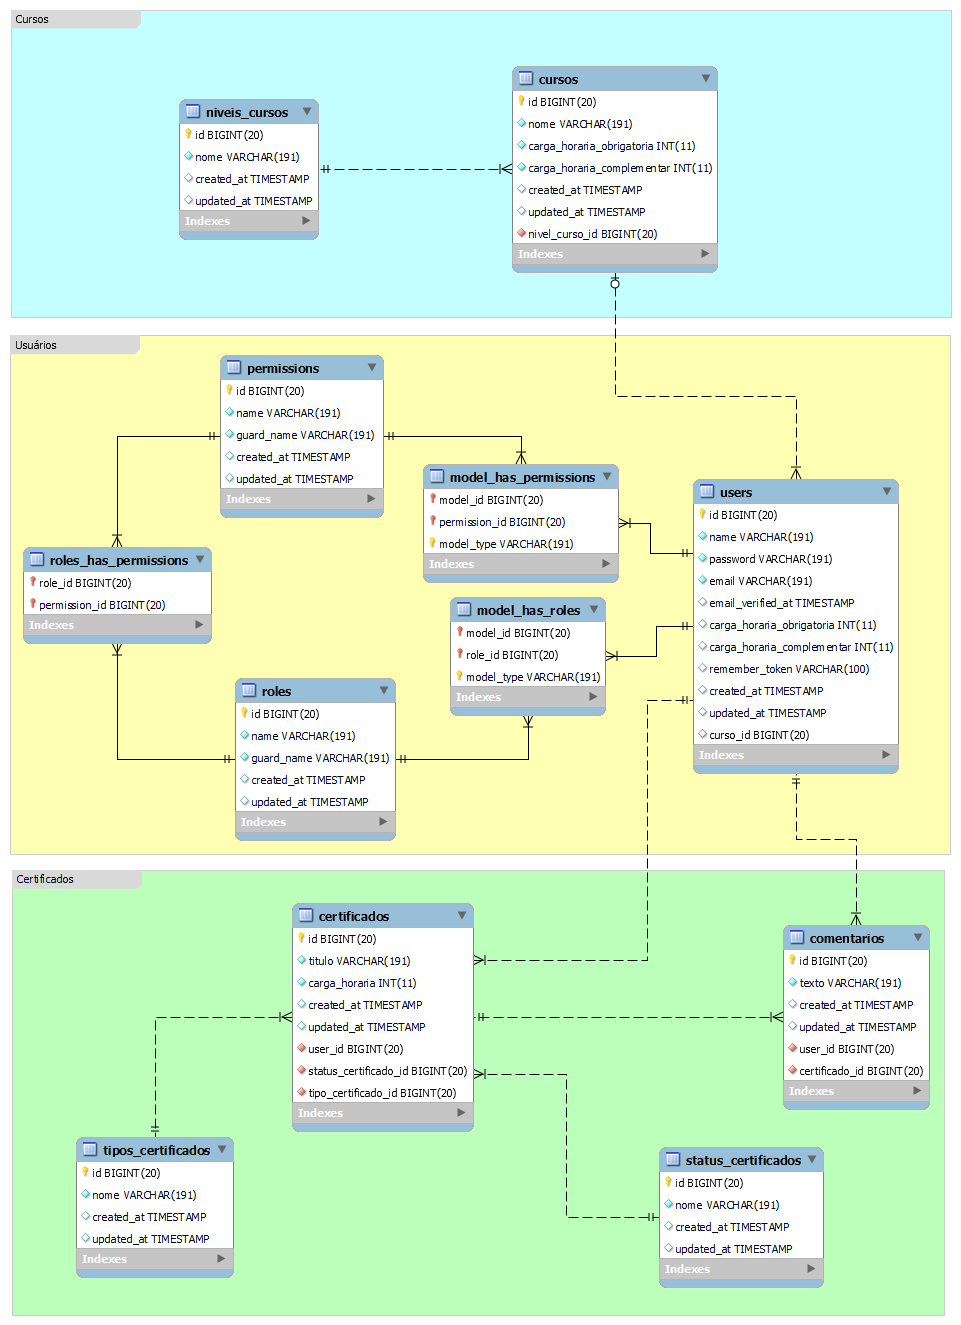
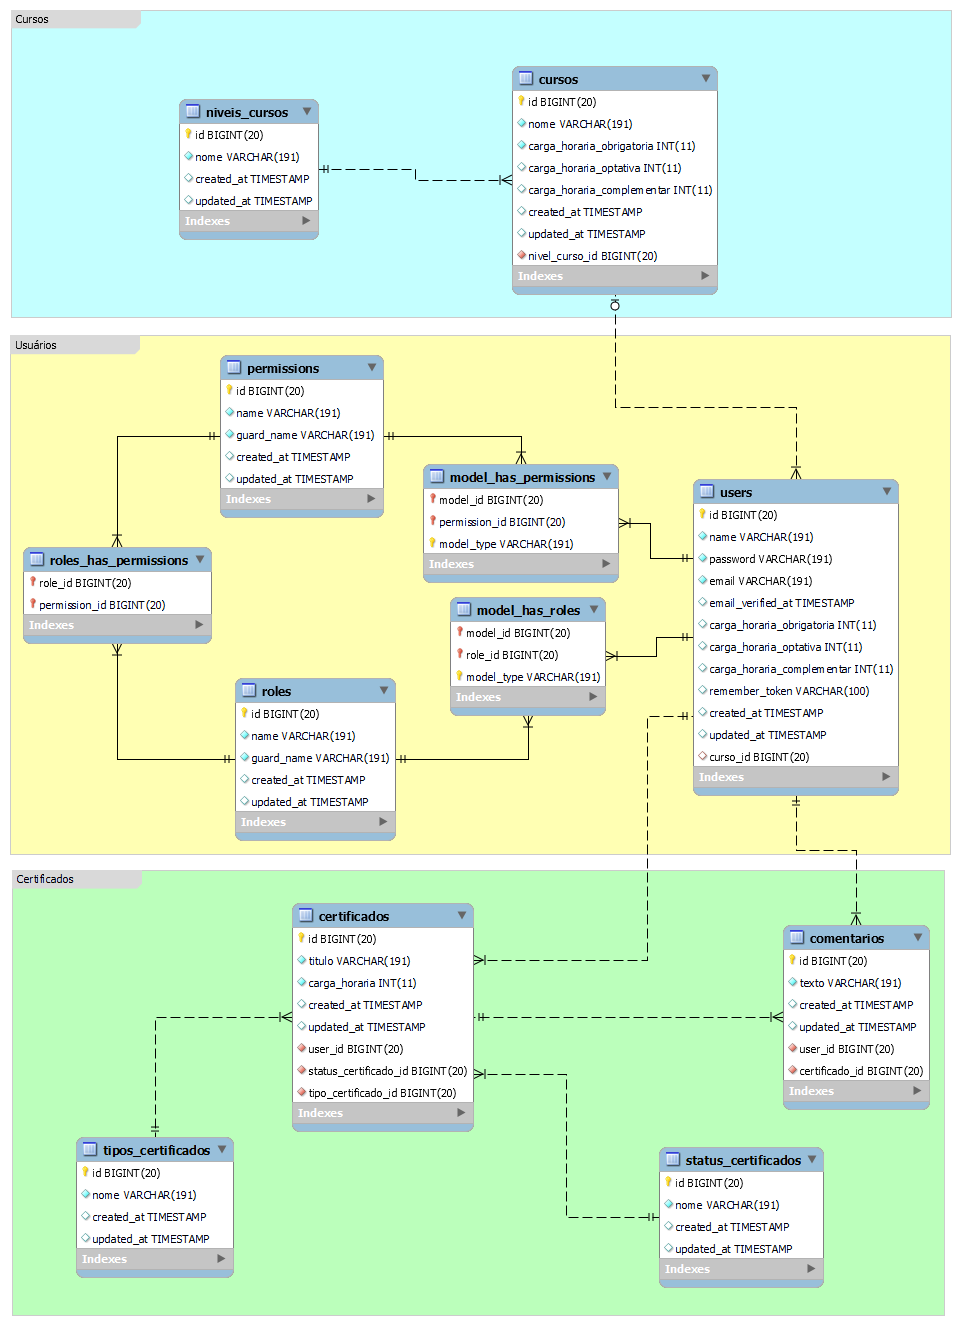
Adição do atributo carga_horaria_optativa nas tabelas user e cursos

Changed region(s): [[0.718, 0.4642, 0.9365, 0.6189], [0.5307, 0.1238, 0.7492, 0.2475], [0.4995, 0.1238, 0.5307, 0.1547]]

diff --git a/database/migrations/2021_10_24_090730_create_cursos_table.php b/database/migrations/2021_10_24_090730_create_cursos_table.php
@@ -18,7 +18,8 @@ class CreateCursosTable extends Migration
 
             $table->string('nome');
             $table->integer('carga_horaria_obrigatoria');
-            $table->integer('carga_horaria_complementar');
+            $table->integer('carga_horaria_optativa')->nullable();
+            $table->integer('carga_horaria_complementar')->nullable();
             $table->foreignId('nivel_curso_id')->constrained('niveis_cursos');
 
             $table->timestamps();

diff --git a/database/migrations/2021_10_24_091254_create_users_table.php b/database/migrations/2021_10_24_091254_create_users_table.php
@@ -21,6 +21,7 @@ class CreateUsersTable extends Migration
             $table->timestamp('email_verified_at')->nullable();
             $table->string('password');
             $table->integer('carga_horaria_obrigatoria')->nullable();
+            $table->integer('carga_horaria_optativa')->nullable();
             $table->integer('carga_horaria_complementar')->nullable();
             $table->rememberToken();
 
